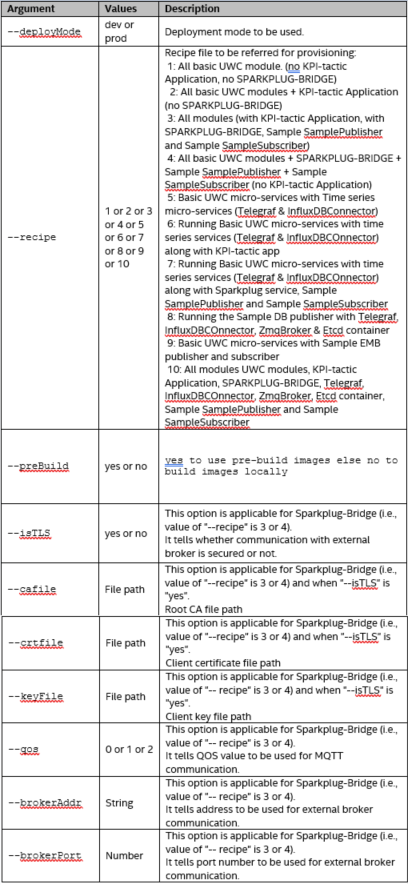
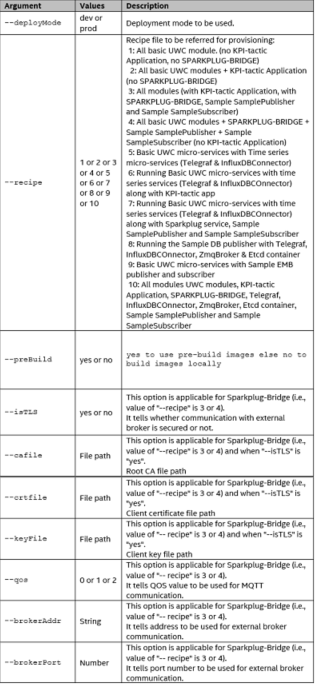
latest html output

Changed region(s): [[0.0, 0.0, 1.0, 1.0]]

diff --git a/docs/Pages/page_04.html b/docs/Pages/page_04.html
@@ -325,7 +325,7 @@
 <li><p>To support non-interactive mode, the following options are added in the 2nd script (02_provision_build_UWC.sh).</p></li>
 </ol>
 <figure class="align-center">
-<a class="reference internal image-reference" href="Pages/Doc_Images/table8.PNG"><img alt="Pages/Doc_Images/table8.PNG" src="Pages/Doc_Images/table8.PNG" /></a>
+<a class="reference internal image-reference" href="../_images/table8.PNG"><img alt="../_images/table8.PNG" src="../_images/table8.PNG" style="width: 253.60000000000002px; height: 548.8000000000001px;" /></a>
 </figure>
 <p>If the required parameters are not available, then in the interactive mode, you need to provide the details for the required parameters.
 12.     Following are sample commands for the non-interactive mode execution.</p>
